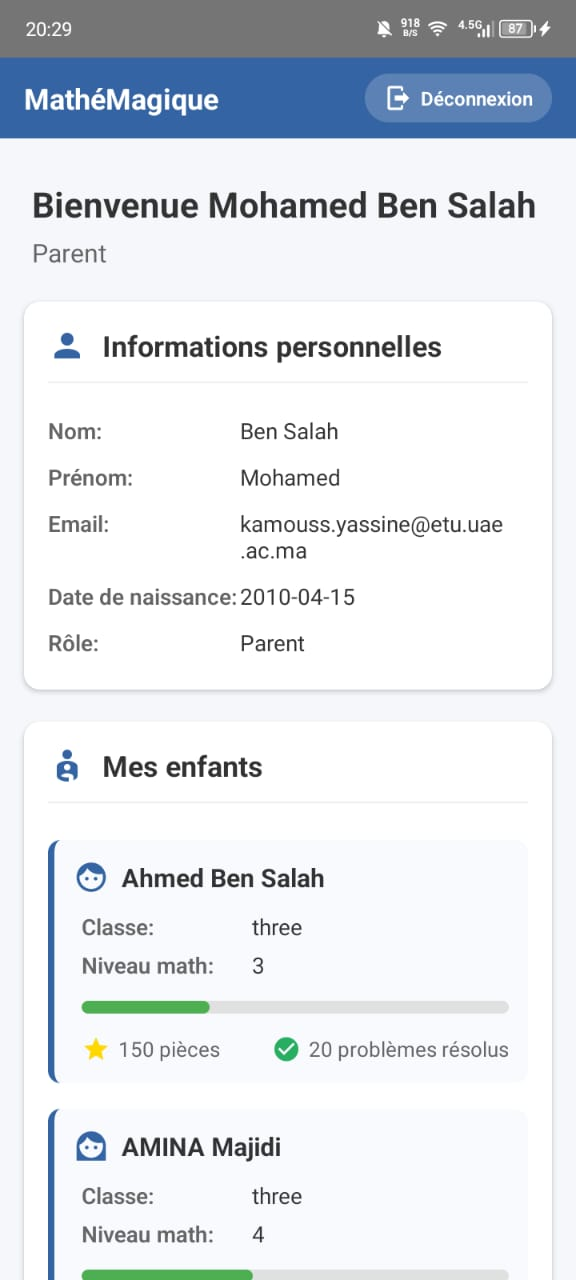
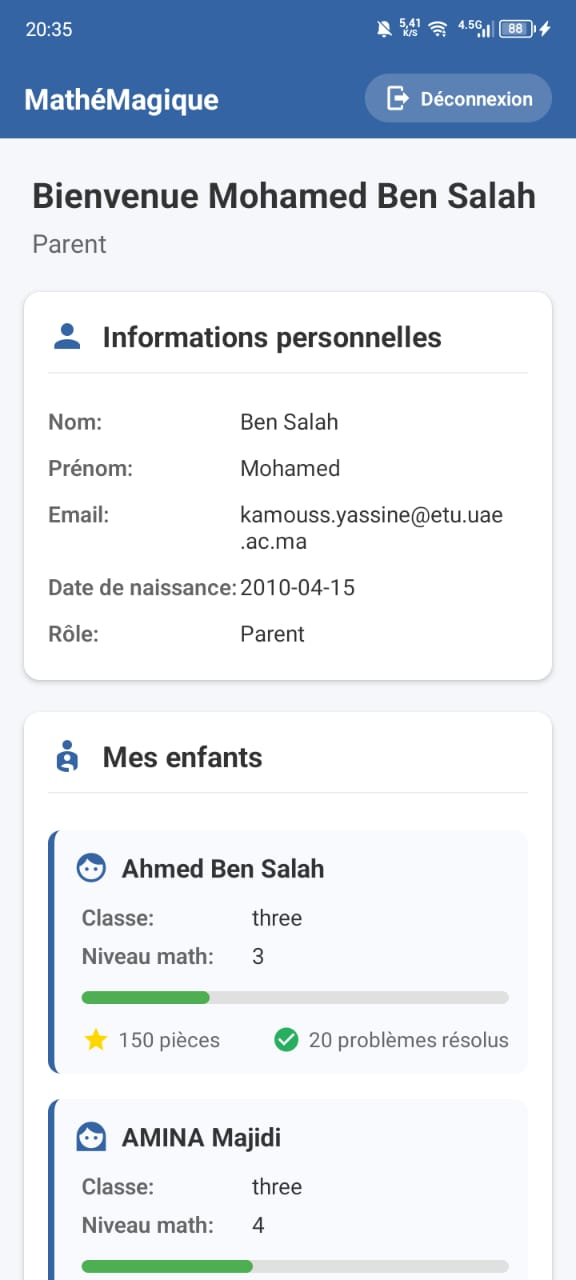
Mis a jour du fichier README.md

diff --git a/src/screens/Home.tsx b/src/screens/Home.tsx
@@ -6,6 +6,7 @@ import {
   ActivityIndicator,
   ScrollView,
   TouchableOpacity,
+  StatusBar,
 } from 'react-native';
 import auth from '@react-native-firebase/auth';
 import database from '@react-native-firebase/database';
@@ -103,6 +104,7 @@ export default function HomeScreen() {
   return (
     <View style={styles.mainContainer}>
       {/* Header avec bouton de déconnexion */}
+      <StatusBar backgroundColor="#3464A3" barStyle="light-content" />
       <View style={styles.topHeader}>
         <View style={styles.headerContent}>
           <Text style={styles.appTitle}>MathéMagique</Text>

diff --git a/README.md b/README.md
@@ -5,8 +5,9 @@
 [![TypeScript](https://img.shields.io/badge/TypeScript-^4.x-blue?logo=typescript)](https://www.typescriptlang.org/)
 
 
-<div style="display: flex; gap: 20px;">
-  <img src="src/assets/login_page_image.jpg" alt="Interface de connexion" width="300" />
+<div style="display: flex;justify-content: center ; gap: 10rem;">
+  <img src="src/assets/login_page_image.jpg" alt="Interface de connexion" width="300"
+  style="border-raduis: 20px;" />
   <img src="src/assets/home_page_image.jpg" alt="Interface d'accueil" width="300" />
 </div>
 
